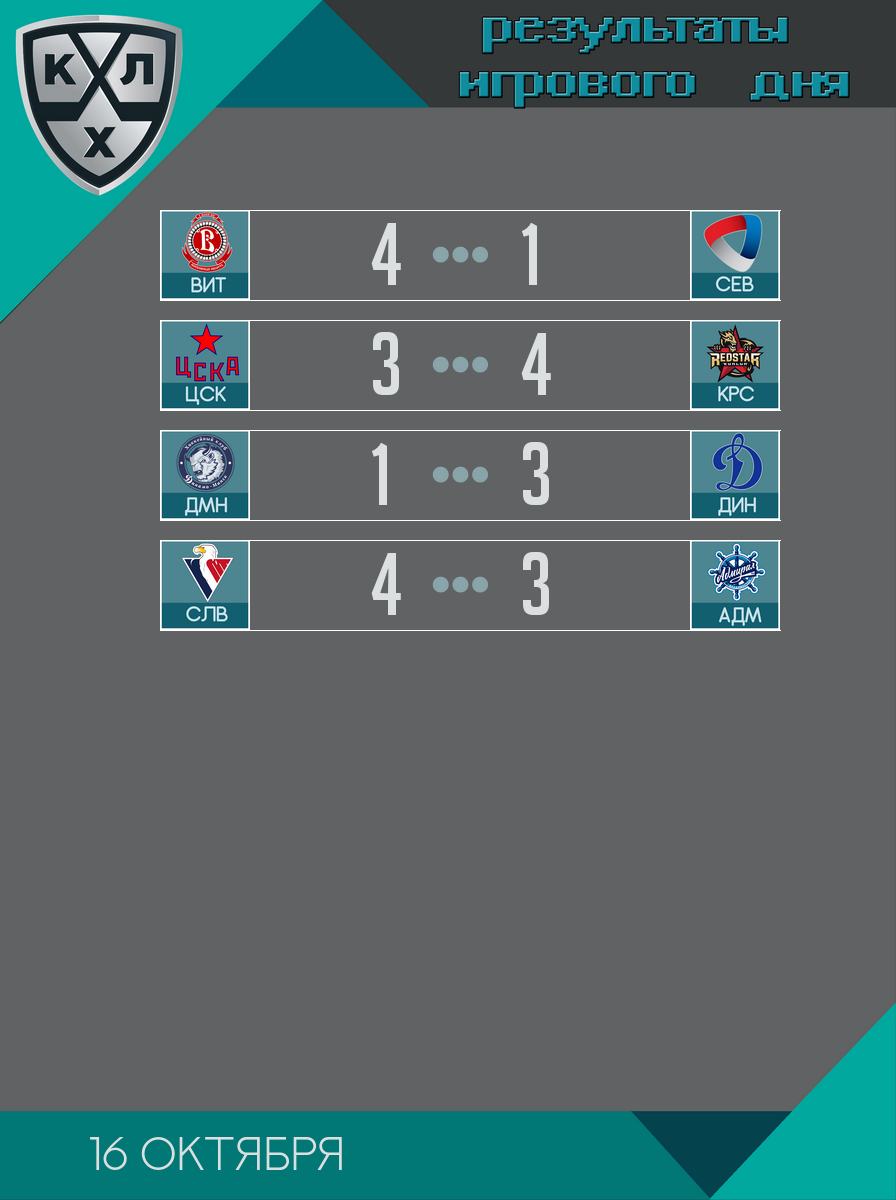
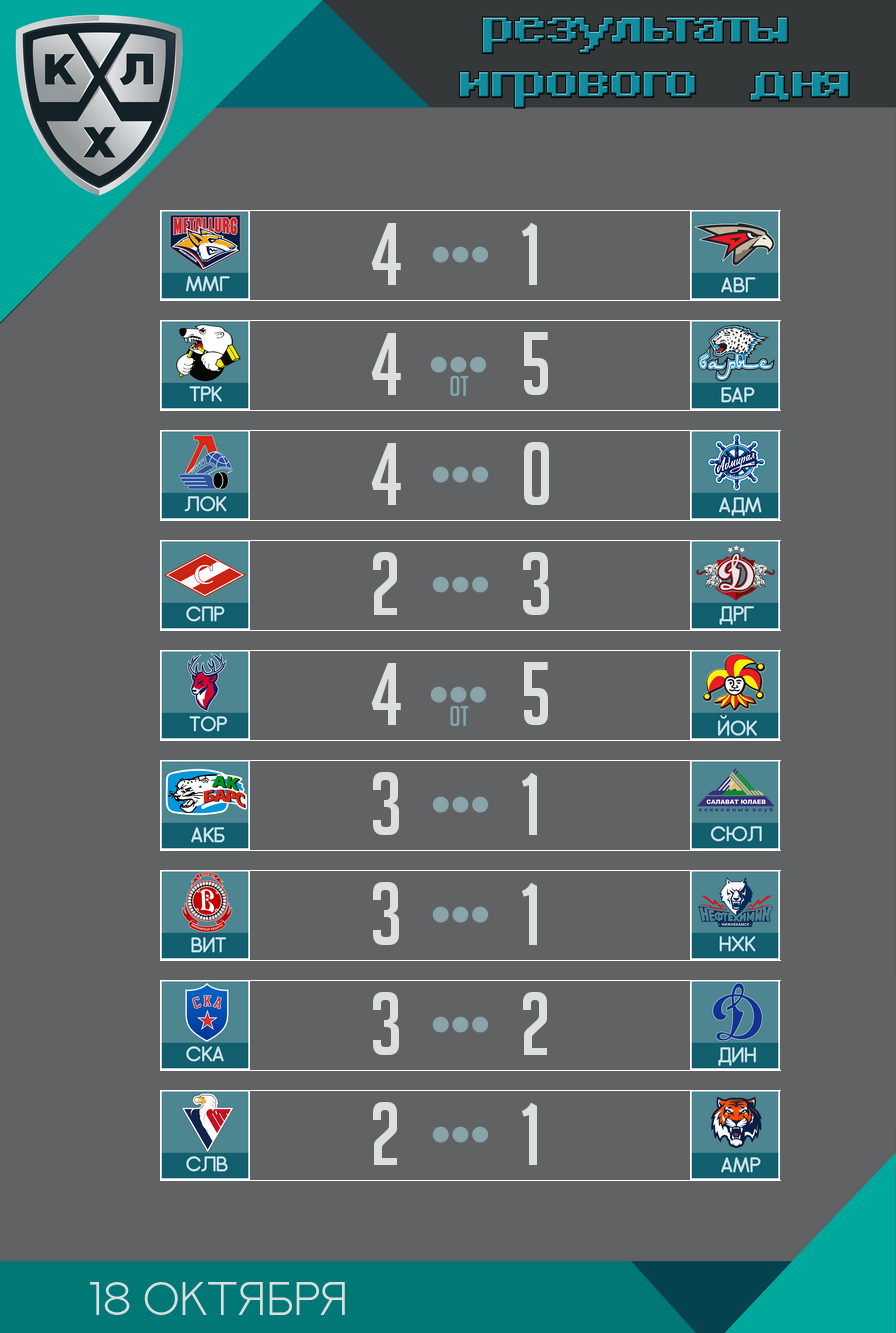
Статистические данные команд

diff --git a/models/module6/StatTeam.php b/models/module6/StatTeam.php
@@ -57,7 +57,8 @@ class StatTeam extends Model
         $this->puck_loss_all_g();            //количество игр в которых было пропущено 0..7 шайб
         $this->P_puck();                     //данные по заброшенным шайбам
         //$this->P_puck_loss();              //данные по пропущенным шайбам
-        puck_stat();                         //статистика заброшенных шайб - всего, дома, в гостях
+        $this->puck_stat();                  //статистика заброшенных шайб - всего, дома, в гостях
+        $this->puck_loss_stat();             //статистика пропущенных шайб - всего, дома, в гостях
     }
     
     
@@ -102,7 +103,6 @@ class StatTeam extends Model
         //SELECT * FROM result_match WHERE id_team=1 AND place=' home' ORDER BY date_match DESC LIMIT 5
         $query_team_1 = 'SELECT * FROM result_match WHERE id_team='.$this->id_team_1.' AND place="home" ORDER BY date_match DESC LIMIT 5';
 		$query_team_2 = 'SELECT * FROM result_match WHERE id_team='.$this->id_team_2.' AND place="home" ORDER BY date_match DESC LIMIT 5';
-        file_put_contents('111.txt', $query_team_1);
 		$this->all_stat['last5g_hom_t1']=$this->id_connect_DB->createCommand($query_team_1)->queryAll();
 		$this->all_stat['last5g_hom_t2']=$this->id_connect_DB->createCommand($query_team_2)->queryAll();
         
@@ -122,40 +122,106 @@ class StatTeam extends Model
         // формирование запросов
         // заброшенных шайб ВСЕГО
         // -- количество заброшенных шайб за 3 периода
-        $q_clear_t1='SELECT SUM(puck_t_clear) FROM `result_match` WHERE id_team='.$this->id_team_1
-        $q_clear_t2='SELECT SUM(puck_t_clear) FROM `result_match` WHERE id_team='.$this->id_team_2
+        $q_clear_t1='SELECT SUM(puck_t_clear) FROM `result_match` WHERE id_team='.$this->id_team_1;
+        $q_clear_t2='SELECT SUM(puck_t_clear) FROM `result_match` WHERE id_team='.$this->id_team_2;
         // -- количество заброшенных шайб с учетом ОТ и Б
-        $q_t1='SELECT SUM(puck_team) FROM `result_match` WHERE id_team='.$this->id_team_1
-        $q_t2='SELECT SUM(puck_team) FROM `result_match` WHERE id_team='.$this->id_team_2
+        $q_t1='SELECT SUM(puck_team) FROM `result_match` WHERE id_team='.$this->id_team_1;
+        $q_t2='SELECT SUM(puck_team) FROM `result_match` WHERE id_team='.$this->id_team_2;
         // заброшенных шайб ДОМА
         // -- количество заброшенных шайб за 3 периода
-        $q_clear_h_t1='SELECT SUM(puck_t_clear) FROM `result_match` WHERE id_team='.$this->id_team_1.'AND place="home"'
-        $q_clear_h_t2='SELECT SUM(puck_t_clear) FROM `result_match` WHERE id_team='.$this->id_team_2.'AND place="home"'
+        $q_clear_h_t1='SELECT SUM(puck_t_clear) FROM `result_match` WHERE id_team='.$this->id_team_1.' AND place="home"';
+        $q_clear_h_t2='SELECT SUM(puck_t_clear) FROM `result_match` WHERE id_team='.$this->id_team_2.' AND place="home"';
         // -- количество заброшенных шайб с учетом ОТ и Б
-        $q_h_t1='SELECT SUM(puck_team) FROM `result_match` WHERE id_team='.$this->id_team_1.'AND place="home"'
-        $q_h_t2='SELECT SUM(puck_team) FROM `result_match` WHERE id_team='.$this->id_team_2.'AND place="home"'
+        $q_h_t1='SELECT SUM(puck_team) FROM `result_match` WHERE id_team='.$this->id_team_1.' AND place="home"';
+        $q_h_t2='SELECT SUM(puck_team) FROM `result_match` WHERE id_team='.$this->id_team_2.' AND place="home"';
         // заброшенных шайб В ГОСТЯХ
         // -- количество заброшенных шайб за 3 периода
-        $q_clear_g_t1='SELECT SUM(puck_t_clear) FROM `result_match` WHERE id_team='.$this->id_team_1.'AND place="guest"'
-        $q_clear_g_t2='SELECT SUM(puck_t_clear) FROM `result_match` WHERE id_team='.$this->id_team_2.'AND place="guest"'
+        $q_clear_g_t1='SELECT SUM(puck_t_clear) FROM `result_match` WHERE id_team='.$this->id_team_1.' AND place="guest"';
+        $q_clear_g_t2='SELECT SUM(puck_t_clear) FROM `result_match` WHERE id_team='.$this->id_team_2.' AND place="guest"';
         // -- количество заброшенных шайб с учетом ОТ и Б
-        $q_g_t1='SELECT SUM(puck_team) FROM `result_match` WHERE id_team='.$this->id_team_1.'AND place="guest"'
-        $q_g_t2='SELECT SUM(puck_team) FROM `result_match` WHERE id_team='.$this->id_team_2.'AND place="guest"'
+        $q_g_t1='SELECT SUM(puck_team) FROM `result_match` WHERE id_team='.$this->id_team_1.' AND place="guest"';
+        $q_g_t2='SELECT SUM(puck_team) FROM `result_match` WHERE id_team='.$this->id_team_2.' AND place="guest"';
         
         // получение данных
+        $this->all_stat['puck_all_g_t1']=
+            $this->id_connect_DB->createCommand($q_t1)->queryAll()[0]['SUM(puck_team)'];
+        $this->all_stat['puck_all_g_t2']=
+            $this->id_connect_DB->createCommand($q_t2)->queryAll()[0]['SUM(puck_team)']; 
+        $this->all_stat['puck_all_g_clear_t1'] =
+            $this->id_connect_DB->createCommand($q_clear_t1)->queryAll()[0]['SUM(puck_t_clear)'];
+        $this->all_stat['puck_all_g_clear_t2'] =
+            $this->id_connect_DB->createCommand($q_clear_t2)->queryAll()[0]['SUM(puck_t_clear)'];
+        $this->all_stat['puck_all_hom_t1'] =
+            $this->id_connect_DB->createCommand($q_h_t1)->queryAll()[0]['SUM(puck_team)'];
+        $this->all_stat['puck_all_hom_t2'] =
+            $this->id_connect_DB->createCommand($q_h_t2)->queryAll()[0]['SUM(puck_team)'];
+        $this->all_stat['puck_all_hom_clear_t1'] =
+            $this->id_connect_DB->createCommand($q_clear_h_t1)->queryAll()[0]['SUM(puck_t_clear)'];
+        $this->all_stat['puck_all_hom_clear_t2'] =
+            $this->id_connect_DB->createCommand($q_clear_h_t2)->queryAll()[0]['SUM(puck_t_clear)'];
+        $this->all_stat['puck_all_gst_t1'] =
+            $this->id_connect_DB->createCommand($q_g_t1)->queryAll()[0]['SUM(puck_team)'];
+        $this->all_stat['puck_all_gst_t2'] =
+            $this->id_connect_DB->createCommand($q_g_t2)->queryAll()[0]['SUM(puck_team)'];
+        $this->all_stat['puck_all_gst_clear_t1'] =
+            $this->id_connect_DB->createCommand($q_clear_g_t1)->queryAll()[0]['SUM(puck_t_clear)'];
+        $this->all_stat['puck_all_gst_clear_t2'] =
+            $this->id_connect_DB->createCommand($q_clear_g_t2)->queryAll()[0]['SUM(puck_t_clear)'];
+    
+    }
+    
+    // статистика пропущенных шайб - всего, дома, в гостях
+    function puck_loss_stat(){
+        // формирование запросов
+        // пропущенных шайб ВСЕГО
+        // -- количество пропущенных шайб за 3 периода
+        $q_clear_t1='SELECT SUM(puck_r_clear) FROM `result_match` WHERE id_team='.$this->id_team_1;
+        $q_clear_t2='SELECT SUM(puck_r_clear) FROM `result_match` WHERE id_team='.$this->id_team_2;
+        // -- количество пропущенных шайб с учетом ОТ и Б
+        $q_t1='SELECT SUM(puck_rival) FROM `result_match` WHERE id_team='.$this->id_team_1;
+        $q_t2='SELECT SUM(puck_rival) FROM `result_match` WHERE id_team='.$this->id_team_2;
+        // пропущенных шайб ДОМА
+        // -- количество пропущенных шайб за 3 периода
+        $q_clear_h_t1='SELECT SUM(puck_r_clear) FROM `result_match` WHERE id_team='.$this->id_team_1.' AND place="home"';
+        $q_clear_h_t2='SELECT SUM(puck_r_clear) FROM `result_match` WHERE id_team='.$this->id_team_2.' AND place="home"';
+        // -- количество пропущенных шайб с учетом ОТ и Б
+        $q_h_t1='SELECT SUM(puck_rival) FROM `result_match` WHERE id_team='.$this->id_team_1.' AND place="home"';
+        $q_h_t2='SELECT SUM(puck_rival) FROM `result_match` WHERE id_team='.$this->id_team_2.' AND place="home"';
+        // пропущенных шайб В ГОСТЯХ
+        // -- количество пропущенных шайб за 3 периода
+        $q_clear_g_t1='SELECT SUM(puck_r_clear) FROM `result_match` WHERE id_team='.$this->id_team_1.' AND place="guest"';
+        $q_clear_g_t2='SELECT SUM(puck_r_clear) FROM `result_match` WHERE id_team='.$this->id_team_2.' AND place="guest"';
+        // -- количество пропущенных шайб с учетом ОТ и Б
+        $q_g_t1='SELECT SUM(puck_rival) FROM `result_match` WHERE id_team='.$this->id_team_1.' AND place="guest"';
+        $q_g_t2='SELECT SUM(puck_rival) FROM `result_match` WHERE id_team='.$this->id_team_2.' AND place="guest"';
         
-            
-        $all_stat['puck_all_g_t1']                 количество заброшенных шайб ВСЕГО
-        $all_stat['puck_all_g_clear_t1']           количество заброшенных шайб ВСЕГО без учета ОТ и Б
-$all_stat['puck_all_hom_t1']               количество заброшенных шайб ДОМА
-$all_stat['puck_all_hom_clear_t1']         количество заброшенных шайб ДОМА без учета ОТ и Б
-$all_stat['puck_all_gst_t1']               количество заброшенных шайб В ГОСТЯХ
-$all_stat['puck_all_gst_clear_t1']         количество заброшенных шайб В ГОСТЯХ без учета ОТ и Б    
-            
-            
-            
-            
-            
+        // получение данных
+        $this->all_stat['puck_loss_all_g_t1']=
+            $this->id_connect_DB->createCommand($q_t1)->queryAll()[0]['SUM(puck_rival)'];
+        $this->all_stat['puck_loss_all_g_t2']=
+            $this->id_connect_DB->createCommand($q_t2)->queryAll()[0]['SUM(puck_rival)']; 
+        $this->all_stat['puck_loss_all_g_clear_t1'] =
+            $this->id_connect_DB->createCommand($q_clear_t1)->queryAll()[0]['SUM(puck_r_clear)'];
+        $this->all_stat['puck_loss_all_g_clear_t2'] =
+            $this->id_connect_DB->createCommand($q_clear_t2)->queryAll()[0]['SUM(puck_r_clear)'];
+        $this->all_stat['puck_loss_all_hom_t1'] =
+            $this->id_connect_DB->createCommand($q_h_t1)->queryAll()[0]['SUM(puck_rival)'];
+        $this->all_stat['puck_loss_all_hom_t2'] =
+            $this->id_connect_DB->createCommand($q_h_t2)->queryAll()[0]['SUM(puck_rival)'];
+        $this->all_stat['puck_loss_all_hom_clear_t1'] =
+            $this->id_connect_DB->createCommand($q_clear_h_t1)->queryAll()[0]['SUM(puck_r_clear)'];
+        $this->all_stat['puck_loss_all_hom_clear_t2'] =
+            $this->id_connect_DB->createCommand($q_clear_h_t2)->queryAll()[0]['SUM(puck_r_clear)'];
+        $this->all_stat['puck_loss_all_gst_t1'] =
+            $this->id_connect_DB->createCommand($q_g_t1)->queryAll()[0]['SUM(puck_rival)'];
+        $this->all_stat['puck_loss_all_gst_t2'] =
+            $this->id_connect_DB->createCommand($q_g_t2)->queryAll()[0]['SUM(puck_rival)'];
+        $this->all_stat['puck_loss_all_gst_clear_t1'] =
+            $this->id_connect_DB->createCommand($q_clear_g_t1)->queryAll()[0]['SUM(puck_r_clear)'];
+        $this->all_stat['puck_loss_all_gst_clear_t2'] =
+            $this->id_connect_DB->createCommand($q_clear_g_t2)->queryAll()[0]['SUM(puck_r_clear)'];
+        
+    
     }
     
     // определение количества игр в которых было ЗАБРОШЕНО 0,1,2,3,4,5,6,7 шайб
@@ -176,7 +242,6 @@ $all_stat['puck_all_gst_clear_t1']         количество заброшен
         
         
     }
-    
     
     // определение количества игр в которых было ПРОПУЩЕНО 0,1,2,3,4,5,6,7 шайб
     function puck_loss_all_g(){
@@ -368,6 +433,14 @@ $all_stat['puck_all_hom_t1']               количество заброшен
 $all_stat['puck_all_hom_clear_t1']         количество заброшенных шайб ДОМА без учета ОТ и Б
 $all_stat['puck_all_gst_t1']               количество заброшенных шайб В ГОСТЯХ
 $all_stat['puck_all_gst_clear_t1']         количество заброшенных шайб В ГОСТЯХ без учета ОТ и Б
+
+
+$all_stat['puck_loss_all_g_t1']            количество пропущенных шайб ВСЕГО
+$all_stat['puck_loss_all_g_clear_t1']      количество пропущенных шайб ВСЕГО без учета ОТ и Б
+$all_stat['puck_loss_all_hom_t1']          количество пропущенных шайб ДОМА
+$all_stat['puck_loss_all_hom_clear_t1']    количество пропущенных шайб ДОМА без учета ОТ и Б
+$all_stat['puck_loss_all_gst_t1']          количество пропущенных шайб В ГОСТЯХ
+$all_stat['puck_loss_all_gst_clear_t1']    количество пропущенных шайб В ГОСТЯХ без учета ОТ и Б
 
 
 

diff --git a/views/module6/main.php b/views/module6/main.php
@@ -339,9 +339,10 @@ include(Yii::getAlias('@app/web/my_config/module6.php'));
 	<div class="row">
         <div class="col-lg-10 alert alert-info lead" role="alert"><strong>Заброшенные шайбы</strong></div>
 	    <div class="col-lg-5 ">
-	        <p class="text-primary lead">Всего:</p>
-              <p class="text-success lead">Дома:</p>
-              <p class="text-danger lead">В гостях:</p>
+            
+            <p class="text-primary lead">Всего: <?=$all_stat['puck_all_g_t1']?> <code>(<?=$all_stat['puck_all_g_clear_t1']?>)</code></p>
+            <p class="text-success lead">Дома: <?=$all_stat['puck_all_hom_t1']?> <code>(<?=$all_stat['puck_all_hom_clear_t1']?>)</code></p>
+            <p class="text-danger lead">В гостях: <?=$all_stat['puck_all_gst_t1']?> <code>(<?=$all_stat['puck_all_gst_clear_t1']?>)</code></p>
                
             <table class="table table-striped">
                 <tr>
@@ -391,7 +392,12 @@ include(Yii::getAlias('@app/web/my_config/module6.php'));
 	        <p><samp></samp>D(з.ш.) = <?=$all_stat['M(X)2_puck_t1']?> - (<?=$all_stat['M(X)_puck_t1']?>)<sup>2</sup> = <?=$all_stat['D(X)_puck_t1']?></p>     
 	    </div><!--class="col-lg-5"-->
 	    <div class="col-lg-5">
-	        <table class="table table-striped">
+	        
+             <p class="text-primary lead">Всего: <?=$all_stat['puck_all_g_t2']?> <code>(<?=$all_stat['puck_all_g_clear_t2']?>)</code></p>
+              <p class="text-success lead">Дома: <?=$all_stat['puck_all_hom_t2']?> <code>(<?=$all_stat['puck_all_hom_clear_t2']?>)</code></p>
+              <p class="text-danger lead">В гостях: <?=$all_stat['puck_all_gst_t2']?> <code>(<?=$all_stat['puck_all_gst_clear_t2']?>)</code></p>
+            
+            <table class="table table-striped">
                  <tr>
                     <td><samp>0 шайб</samp></td>
                     <td><samp>игр: </samp><strong><?= $all_stat['puck_0_all_g_t2']?></strong></td>
@@ -442,10 +448,15 @@ include(Yii::getAlias('@app/web/my_config/module6.php'));
 	</div><!--class="row"-->
 	<hr>
 	<!-- Пропущенные шайбы================================================================= -->
-	<div class="row bg-warning">
-	<h4> Пропущенные шайбы</h4>
+	<div class="row">
+	<div class="col-lg-10 alert alert-warning lead" role="alert"><strong>Пропущенные шайбы</strong></div>
 	    <div class="col-lg-5">
-	        <table class="table table-striped">
+	        
+                <p class="text-primary lead">Всего: <?=$all_stat['puck_loss_all_g_t1']?> <code>(<?=$all_stat['puck_loss_all_g_clear_t1']?>)</code></p>
+                <p class="text-success lead">Дома: <?=$all_stat['puck_loss_all_hom_t1']?> <code>(<?=$all_stat['puck_loss_all_hom_clear_t1']?>)</code></p>
+                <p class="text-danger lead">В гостях: <?=$all_stat['puck_loss_all_gst_t1']?> <code>(<?=$all_stat['puck_loss_all_gst_clear_t1']?>)</code></p>
+            
+               <table class="table table-striped">
                 <tr>
                     <td><samp>0 шайб</samp></td>
                     <td><samp>игр: </samp><strong><?= $all_stat['puck_loss_0_all_g_t1']?></strong></td>
@@ -493,7 +504,12 @@ include(Yii::getAlias('@app/web/my_config/module6.php'));
 	        <p><samp></samp>D(з.ш.) = <?=$all_stat['M(X)2_puck_loss_t1']?> - (<?=$all_stat['M(X)_puck_loss_t1']?>)<sup>2</sup> = <?=$all_stat['D(X)_puck_loss_t1']?></p>     
 	    </div><!--class="col-lg-5"-->
 	    <div class="col-lg-5">
-	        <table class="table table-striped">
+	        
+            <p class="text-primary lead">Всего: <?=$all_stat['puck_loss_all_g_t2']?> <code>(<?=$all_stat['puck_loss_all_g_clear_t2']?>)</code></p>
+            <p class="text-success lead">Дома: <?=$all_stat['puck_loss_all_hom_t2']?> <code>(<?=$all_stat['puck_loss_all_hom_clear_t2']?>)</code></p>
+            <p class="text-danger lead">В гостях: <?=$all_stat['puck_loss_all_gst_t2']?> <code>(<?=$all_stat['puck_loss_all_gst_clear_t2']?>)</code></p>
+                    
+            <table class="table table-striped">
                  <tr>
                     <td><samp>0 шайб</samp></td>
                     <td><samp>игр: </samp><strong><?= $all_stat['puck_loss_0_all_g_t1']?></strong></td>
@@ -541,6 +557,44 @@ include(Yii::getAlias('@app/web/my_config/module6.php'));
 	        <p><samp></samp>D(п.ш.) = <?=$all_stat['M(X)2_puck_loss_t2']?> - (<?=$all_stat['M(X)_puck_loss_t2']?>)<sup>2</sup> = <?=$all_stat['D(X)_puck_loss_t2']?></p>
 	        </table>     
 	    </div><!--class="col-lg-5"-->       
+	</div><!--class="row"-->
+	<!-- Cводная таблица=================================== -->
+	<div class="row">
+	<div class="col-lg-10 alert alert-success lead" role="alert"><strong>Cводная таблица</strong></div>
+	    <div class="col-lg-6">
+	        
+            
+               <table class="table table-hover table-striped">
+                <thead>
+                    <td class="success"></td>
+                    <td class="success"><?=$arr_team[$id_team_1]?></td>
+                    <td class="success"><?=$arr_team[$id_team_2]?></td>
+                </thead>
+                <tr>
+                    <td class="warning">M(з.ш.)</td>
+                    <td><?=$all_stat['M(X)_puck_t1']?></td>
+                    <td><?=$all_stat['M(X)_puck_t2']?></td>    
+                </tr>
+                <tr>
+                    <td class="warning">D(з.ш.)</td>
+                    <td><?=$all_stat['D(X)_puck_t1']?></td>
+                    <td><?=$all_stat['D(X)_puck_t2']?></td>    
+                </tr>
+                <tr>
+                    <td class="warning">M(п.ш.)</td>
+                    <td><?=$all_stat['M(X)_puck_loss_t1']?></td>
+                    <td><?=$all_stat['M(X)_puck_loss_t2']?></td>    
+                </tr>
+                <tr>
+                    <td class="warning">D(п.ш.)</td>
+                    <td><?=$all_stat['D(X)_puck_loss_t1']?></td>
+                    <td><?=$all_stat['D(X)_puck_loss_t2']?></td>    
+                </tr>
+                
+	        </table>
+   
+	    </div><!--class="col-lg-5"-->
+	           
 	</div><!--class="row"-->
 <?php endif; /*if($all_stat != NULL): - проверка наличия данных*/?>
         

diff --git a/models/module1/ParserKhlResults_2018.php b/models/module1/ParserKhlResults_2018.php
@@ -138,7 +138,7 @@ class ParserKhlResults_2018 extends Model
                 $this->result_team[$id_team][$number_match]['result'] = 'lose';}        
             }else{
             // матч не сыгран
-            file_put_contents("5++.txt",$this->result_team[$id_team][$number_match]['puck_team'],FILE_APPEND);    
+            //file_put_contents("5++.txt",$this->result_team[$id_team][$number_match]['puck_team'],FILE_APPEND);    
             break;
             }//else
             
@@ -159,15 +159,15 @@ class ParserKhlResults_2018 extends Model
                 $this->result_team[$id_team][$number_match]['puck_t_clear'] = ($this->result_team[$id_team][$number_match]['puck_team'] - 1);
                 $this->result_team[$id_team][$number_match]['puck_r_clear'] = $this->result_team[$id_team][$number_match]['puck_rival'];
                 
-                file_put_contents("5-win.txt",
-                                  "time_end - ".$this->result_team[$id_team][$number_match]['time_end']."\n".
-                                  "result - ".$this->result_team[$id_team][$number_match]['result']."\n".
-                                  "puck_team - ".$this->result_team[$id_team][$number_match]['puck_team']."\n".
-                                  "puck_t_clear - ".$this->result_team[$id_team][$number_match]['puck_t_clear']."\n".
-                                  "puck_rival - ".$this->result_team[$id_team][$number_match]['puck_rival']."\n".
-                                  "puck_r_clear - ".$this->result_team[$id_team][$number_match]['puck_r_clear']."\n".
-                                  "=ОТ===================================================================="."\n",
-                                  FILE_APPEND);
+//              file_put_contents("5-win.txt",
+//                                  "time_end - ".$this->result_team[$id_team][$number_match]['time_end']."\n".
+//                                  "result - ".$this->result_team[$id_team][$number_match]['result']."\n".
+//                                  "puck_team - ".$this->result_team[$id_team][$number_match]['puck_team']."\n".
+//                                  "puck_t_clear - ".$this->result_team[$id_team][$number_match]['puck_t_clear']."\n".
+//                                  "puck_rival - ".$this->result_team[$id_team][$number_match]['puck_rival']."\n".
+//                                  "puck_r_clear - ".$this->result_team[$id_team][$number_match]['puck_r_clear']."\n".
+//                                  "=ОТ===================================================================="."\n",
+//                                  FILE_APPEND);
                 
                 
             }
@@ -177,15 +177,15 @@ class ParserKhlResults_2018 extends Model
                 $this->result_team[$id_team][$number_match]['puck_r_clear'] = ($this->result_team[$id_team][$number_match]['puck_rival'] - 1);
                 
                 
-                file_put_contents("5-lose.txt",
-                                  "time_end - ".$this->result_team[$id_team][$number_match]['time_end']."\n".
-                                  "result - ".$this->result_team[$id_team][$number_match]['result']."\n".
-                                  "puck_team - ".$this->result_team[$id_team][$number_match]['puck_team']."\n".
-                                  "puck_t_clear - ".$this->result_team[$id_team][$number_match]['puck_t_clear']."\n".
-                                  "puck_rival - ".$this->result_team[$id_team][$number_match]['puck_rival']."\n".
-                                  "puck_r_clear - ".$this->result_team[$id_team][$number_match]['puck_r_clear']."\n".
-                                  "=Б===================================================================="."\n",
-                                  FILE_APPEND);
+//                file_put_contents("5-lose.txt",
+//                                  "time_end - ".$this->result_team[$id_team][$number_match]['time_end']."\n".
+//                                  "result - ".$this->result_team[$id_team][$number_match]['result']."\n".
+//                                  "puck_team - ".$this->result_team[$id_team][$number_match]['puck_team']."\n".
+//                                  "puck_t_clear - ".$this->result_team[$id_team][$number_match]['puck_t_clear']."\n".
+//                                  "puck_rival - ".$this->result_team[$id_team][$number_match]['puck_rival']."\n".
+//                                  "puck_r_clear - ".$this->result_team[$id_team][$number_match]['puck_r_clear']."\n".
+//                                  "=Б===================================================================="."\n",
+//                                  FILE_APPEND);
                 
                 
             }

diff --git a/views/module3/poster_final_score.php b/views/module3/poster_final_score.php
@@ -49,6 +49,8 @@ include(Yii::getAlias('@app/web/my_config/module2.php'));
         ['x_logo1'=>160, 'y_logo1'=>210+($step*6), 'x_logo2'=>690, 'y_logo2'=>210+($step*6), 'x_line_up_1'=>250, 'y_line_up_1'=>210+($step*6), 'x_line_up_2'=>780, 'y_line_up_2'=>210+($step*6), 'x_line_down_1'=>250, 'y_line_down_1'=>300+($step*6), 'x_line_down_2'=>780, 'y_line_down_2'=>300+($step*6),],
         // матч 8
         ['x_logo1'=>160, 'y_logo1'=>210+($step*7), 'x_logo2'=>690, 'y_logo2'=>210+($step*7), 'x_line_up_1'=>250, 'y_line_up_1'=>210+($step*7), 'x_line_up_2'=>780, 'y_line_up_2'=>210+($step*7), 'x_line_down_1'=>250, 'y_line_down_1'=>300+($step*7), 'x_line_down_2'=>780, 'y_line_down_2'=>300+($step*7),],
+        // матч 9
+        ['x_logo1'=>160, 'y_logo1'=>210+($step*8), 'x_logo2'=>690, 'y_logo2'=>210+($step*8), 'x_line_up_1'=>250, 'y_line_up_1'=>210+($step*8), 'x_line_up_2'=>780, 'y_line_up_2'=>210+($step*8), 'x_line_down_1'=>250, 'y_line_down_1'=>300+($step*8), 'x_line_down_2'=>780, 'y_line_down_2'=>300+($step*8),],
     ];
     //********************************************************
     // данные, получаемые из $_GET массива из вида
@@ -61,6 +63,7 @@ include(Yii::getAlias('@app/web/my_config/module2.php'));
     //********************************************************
     // загрузка изображения - шаблона
     $image = imagecreatefrompng('images\module3\template_final_score\final_score.png');
+    if ($data_poster['amount'] == 9){$image = imagecreatefrompng('images\module3\template_final_score\final_score_big.png');}
      // установка цвета
     $color_date = imagecolorallocate($image, 196,199,200);
     $color_time = imagecolorallocate($image, 112,214,243);
@@ -118,8 +121,11 @@ include(Yii::getAlias('@app/web/my_config/module2.php'));
     //вставка даты
     $date = $data_poster['day_game'];
     $month = $data_poster['month_game'];
-    imagettftext($image, 35, 0, 90, 1170, $color_text , $font_date, $date.' '.$month);
-    
+    if ($data_poster['amount'] == 9){
+        imagettftext($image, 35, 0, 90, 1315, $color_text , $font_date, $date.' '.$month);;
+    }else{
+        imagettftext($image, 35, 0, 90, 1170, $color_text , $font_date, $date.' '.$month);    
+    }
                
     // сохранение файла
     imagepng($image,'images\module3\new\final_score_.png',9);           
